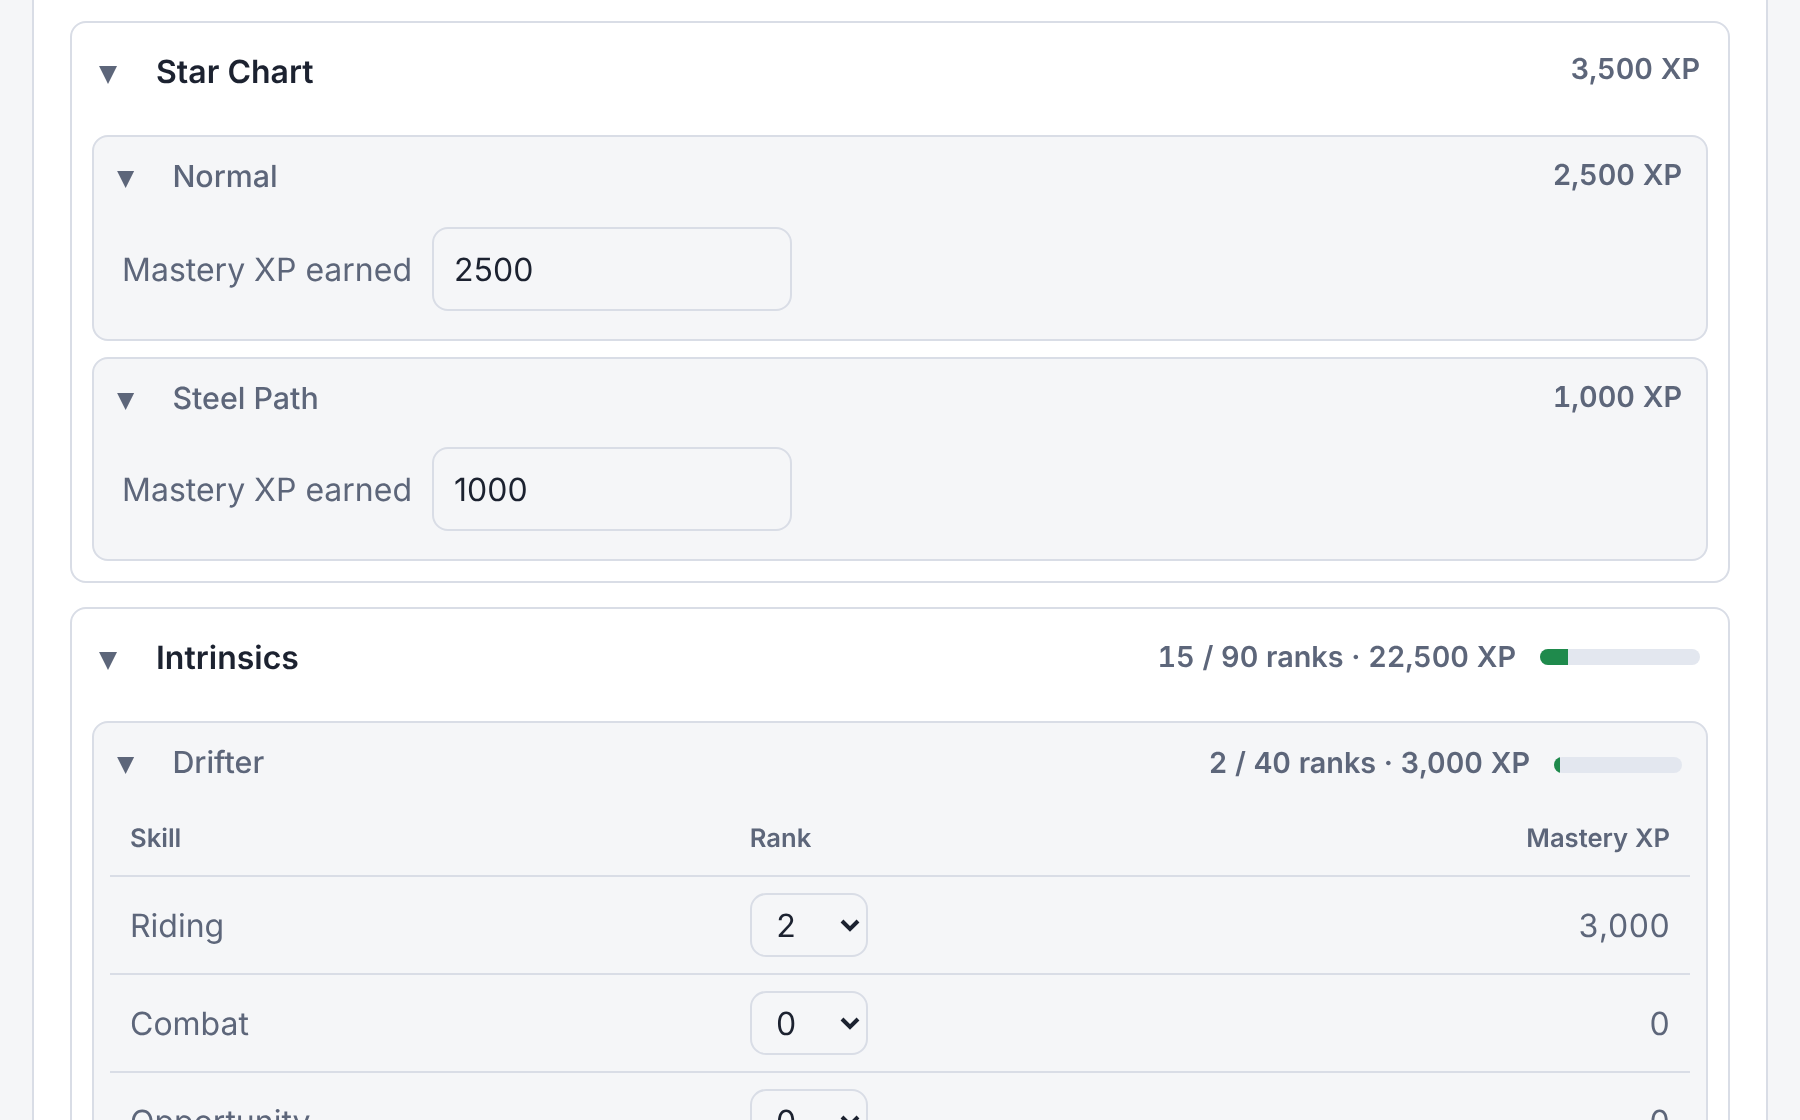
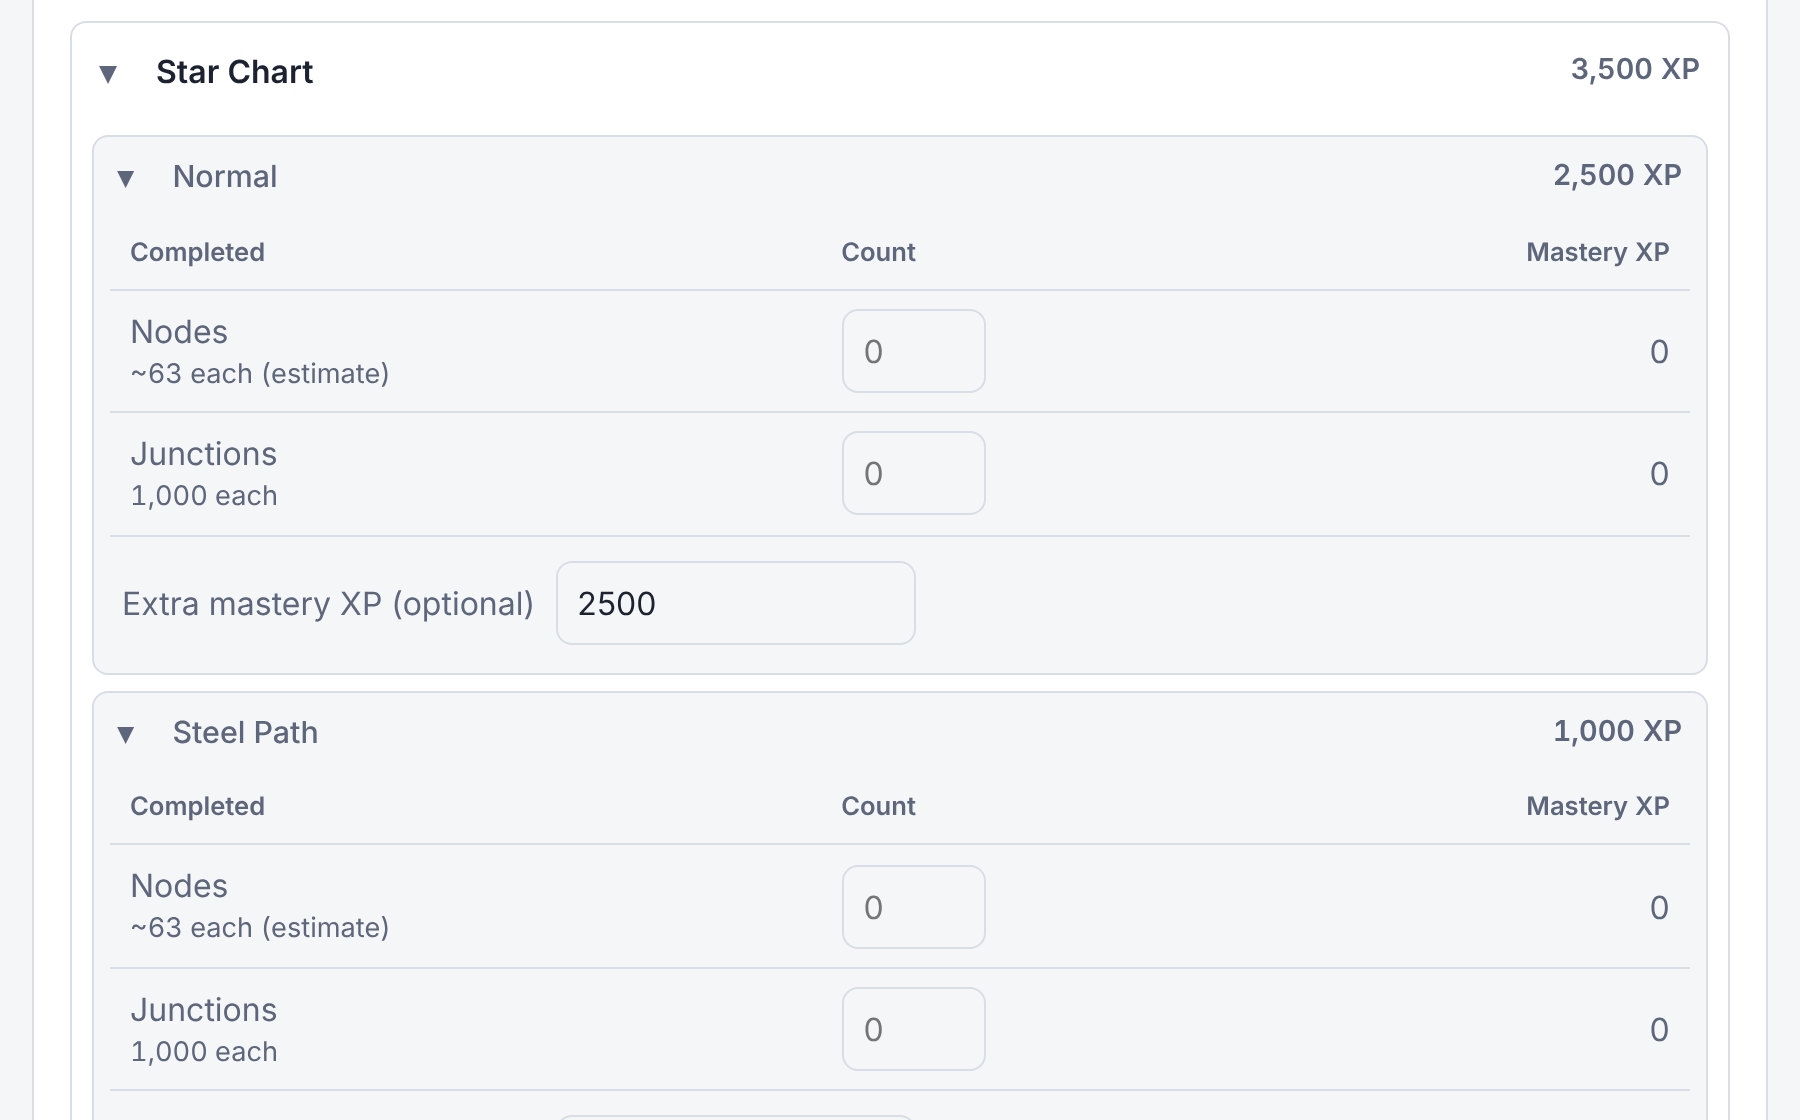
Star Chart: nodes and junctions, filled in from the imported profile
Junctions are 1,000 XP each; nodes use a ~63 XP estimate. Counts for Normal
and Steel Path come from the Missions list in the profile.

Claude-Session: https://claude.ai/code/session_01APemrT85MxDH99zKt1411N

diff --git a/js/mastery.js b/js/mastery.js
@@ -117,6 +117,21 @@
     return out;
   }
 
+  // Completed Star Chart nodes and junctions come from the Missions list. A Tier of
+  // 1 marks the Steel Path completion. Railjack, dojo and event nodes are skipped.
+  function readStarChart(missions) {
+    const out = { "star-chart/nodes": 0, "star-chart/junctions": 0, "steel-path/nodes": 0, "steel-path/junctions": 0 };
+    if (!Array.isArray(missions)) return out;
+    for (const m of missions) {
+      const tag = m && typeof m.Tag === "string" ? m.Tag : "";
+      const kind = /^SolNode\d+$/.test(tag) ? "nodes" : /Junction$/.test(tag) ? "junctions" : null;
+      if (!kind) continue;
+      out["star-chart/" + kind]++;
+      if (m.Tier === 1) out["steel-path/" + kind]++;
+    }
+    return out;
+  }
+
   function parseProfile(json) {
     const root = json && Array.isArray(json.Results) ? json.Results[0] : json;
     if (!root || typeof root !== "object") throw new Error("Not a profile JSON object.");
@@ -136,6 +151,7 @@
       reportedRank: Number.isFinite(root.PlayerLevel) ? root.PlayerLevel : null,
       xpByItem,
       intrinsics: readIntrinsics(root.PlayerSkills),
+      starChart: readStarChart(root.Missions),
     };
   }
 
@@ -168,10 +184,17 @@
   const INTRINSIC_XP_PER_RANK = 1500;
   const INTRINSIC_MAX_RANK = 10;
   const MAX_ENTERED_XP = 10000000;
+  // Star Chart: a junction is worth 1,000. Nodes vary, with an average of about 63
+  // (the wiki gives no per-node table), so node XP is an estimate. Steel Path replays
+  // are said to grant the same again; that is assumed for junctions too.
+  const NODE_XP_ESTIMATE = 63;
+  const JUNCTION_XP = 1000;
+  const MAX_NODES = 400;
+  const MAX_JUNCTIONS = 30;
 
   const OTHER_SOURCES = [
-    { id: "star-chart", label: "Normal", fullLabel: "Star Chart", kind: "xp" },
-    { id: "steel-path", label: "Steel Path", fullLabel: "Steel Path Star Chart", kind: "xp" },
+    { id: "star-chart", label: "Normal", fullLabel: "Star Chart", kind: "chart" },
+    { id: "steel-path", label: "Steel Path", fullLabel: "Steel Path Star Chart", kind: "chart" },
     {
       id: "drifter-intrinsics",
       label: "Drifter",
@@ -217,12 +240,16 @@
   // Shape: { xp: { "star-chart": n, ... }, ranks: { "railjack-intrinsics/piloting": n, ... } }.
   // Anything unknown or out of range is dropped or clamped, whatever came in.
   function sanitizeOther(raw) {
-    const out = { xp: {}, ranks: {} };
+    const out = { xp: {}, ranks: {}, counts: {} };
     const src = raw && typeof raw === "object" ? raw : {};
     for (const s of OTHER_SOURCES) {
-      if (s.kind === "xp") {
-        const n = wholeNumber(src.xp && src.xp[s.id], MAX_ENTERED_XP);
-        if (n) out.xp[s.id] = n;
+      if (s.kind === "chart") {
+        const extra = wholeNumber(src.xp && src.xp[s.id], MAX_ENTERED_XP);
+        if (extra) out.xp[s.id] = extra;
+        const nodes = wholeNumber(src.counts && src.counts[s.id + "/nodes"], MAX_NODES);
+        if (nodes) out.counts[s.id + "/nodes"] = nodes;
+        const junctions = wholeNumber(src.counts && src.counts[s.id + "/junctions"], MAX_JUNCTIONS);
+        if (junctions) out.counts[s.id + "/junctions"] = junctions;
       } else {
         for (const sk of s.skills) {
           const key = s.id + "/" + sk.id;
@@ -237,9 +264,13 @@
   function summarizeOther(raw) {
     const o = sanitizeOther(raw);
     const sources = OTHER_SOURCES.map((s) => {
-      if (s.kind === "xp") {
-        const xp = o.xp[s.id] || 0;
-        return { id: s.id, label: s.label, fullLabel: s.fullLabel, kind: "xp", xp, maxXp: null };
+      if (s.kind === "chart") {
+        const nodes = o.counts[s.id + "/nodes"] || 0;
+        const junctions = o.counts[s.id + "/junctions"] || 0;
+        const extra = o.xp[s.id] || 0;
+        const nodeXp = nodes * NODE_XP_ESTIMATE;
+        const junctionXp = junctions * JUNCTION_XP;
+        return { id: s.id, label: s.label, fullLabel: s.fullLabel, kind: "chart", nodes, junctions, extra, nodeXp, junctionXp, nodeKey: s.id + "/nodes", junctionKey: s.id + "/junctions", xp: nodeXp + junctionXp + extra, maxXp: null };
       }
       const skills = s.skills.map((sk) => {
         const key = s.id + "/" + sk.id;
@@ -353,5 +384,5 @@
     return ids.map((id) => ({ id, label: listLabel(id), rows: byId.get(id), types: groupByType(id, byId.get(id)) }));
   }
 
-  return { xpForRank, rankFromXp, rankProgress, rulesFor, evaluateItem, parseProfile, summarize, OTHER_SOURCES, OTHER_GROUPS, sanitizeOther, summarizeOther, listOf, listLabel, typeLabel, groupByType, groupRows };
+  return { xpForRank, rankFromXp, rankProgress, rulesFor, evaluateItem, parseProfile, summarize, OTHER_SOURCES, OTHER_GROUPS, NODE_XP_ESTIMATE, JUNCTION_XP, sanitizeOther, summarizeOther, listOf, listLabel, typeLabel, groupByType, groupRows };
 });

diff --git a/js/app.js b/js/app.js
@@ -162,11 +162,19 @@
   function otherSourceHtml(src, groupId) {
     const key = "other/" + groupId + "/" + src.id;
     let inner;
-    if (src.kind === "xp") {
+    if (src.kind === "chart") {
+      const row = (label, hint, key, count, xp) =>
+        "<tr><td>" + esc(label) + (hint ? '<span class="muted small hint-line">' + esc(hint) + "</span>" : "") + "</td>" +
+        '<td><input type="number" class="count-input" data-other-count="' + esc(key) + '" min="0" step="1" inputmode="numeric" placeholder="0" aria-label="' + esc(src.fullLabel + " " + label.toLowerCase() + " completed") + '"' + (count ? ' value="' + count + '"' : "") + "></td>" +
+        '<td class="num" id="xp-' + esc(slugOf(key)) + '">' + fmt(xp) + "</td></tr>";
       inner =
-        '<div class="other-row"><label for="xp-' + esc(src.id) + '">Mastery XP earned</label>' +
+        '<div class="table-wrap"><table><thead><tr><th scope="col">Completed</th><th scope="col">Count</th><th scope="col" class="num">Mastery XP</th></tr></thead><tbody>' +
+        row("Nodes", "~" + M.NODE_XP_ESTIMATE + " each (estimate)", src.nodeKey, src.nodes, src.nodeXp) +
+        row("Junctions", fmt(M.JUNCTION_XP) + " each", src.junctionKey, src.junctions, src.junctionXp) +
+        "</tbody></table></div>" +
+        '<div class="other-row"><label for="xp-' + esc(src.id) + '">Extra mastery XP (optional)</label>' +
         '<input type="number" class="xp-input" id="xp-' + esc(src.id) + '" data-other-xp="' + esc(src.id) + '" min="0" step="1" inputmode="numeric" placeholder="0"' +
-        (src.xp ? ' value="' + src.xp + '"' : "") + "></div>";
+        (src.extra ? ' value="' + src.extra + '"' : "") + "></div>";
     } else {
       inner =
         '<div class="table-wrap"><table><thead><tr><th scope="col">Skill</th><th scope="col">Rank</th><th scope="col" class="num">Mastery XP</th></tr></thead><tbody>' +
@@ -208,6 +216,10 @@
       for (const src of g.sources) {
         const slug = slugOf("other/" + g.id + "/" + src.id);
         $("cnt-" + slug).textContent = otherCount(src);
+        if (src.kind === "chart") {
+          $("xp-" + slugOf(src.nodeKey)).textContent = fmt(src.nodeXp);
+          $("xp-" + slugOf(src.junctionKey)).textContent = fmt(src.junctionXp);
+        }
         if (src.kind === "ranks") {
           $("bar-" + slug).style.width = pctOf(src.rank, src.maxRank) + "%";
           for (const k of src.skills) $("xp-" + slugOf(k.key)).textContent = fmt(k.xp);
@@ -299,18 +311,23 @@
       state.profile = profile;
       // Intrinsic ranks are in the profile, so fill them in (they stay editable).
       const filled = Object.keys(profile.intrinsics || {});
-      if (filled.length) {
+      const chartKeys = Object.keys(profile.starChart || {});
+      if (filled.length || chartKeys.length) {
         const other = M.sanitizeOther(state.other);
         for (const k of filled) {
           if (profile.intrinsics[k]) other.ranks[k] = profile.intrinsics[k];
           else delete other.ranks[k];
         }
-        state.other = other;
+        for (const k of chartKeys) {
+          if (profile.starChart[k]) other.counts[k] = profile.starChart[k];
+          else delete other.counts[k];
+        }
+        state.other = M.sanitizeOther(other);
       }
       saveState();
       renderAll();
       const n = Object.keys(profile.xpByItem).length;
-      setMsg($("import-msg"), "Imported " + n + " items with XP" + (profile.displayName ? " for " + profile.displayName : "") + (filled.length ? " and your intrinsic ranks" : "") + ".", "ok");
+      setMsg($("import-msg"), "Imported " + n + " items with XP" + (profile.displayName ? " for " + profile.displayName : "") + (filled.length || chartKeys.length ? ", your Star Chart progress and your intrinsic ranks" : "") + ".", "ok");
     } catch (e) {
       setMsg($("import-msg"), e.message, "error");
     }
@@ -393,6 +410,10 @@
         const v = String(e.target.value).trim();
         if (v === "") delete next.xp[d.otherXp];
         else next.xp[d.otherXp] = Number(v);
+      } else if (d.otherCount) {
+        const v = String(e.target.value).trim();
+        if (v === "") delete next.counts[d.otherCount];
+        else next.counts[d.otherCount] = Number(v);
       } else if (d.otherRank) {
         next.ranks[d.otherRank] = Number(e.target.value);
       } else {

diff --git a/test/mastery.test.js b/test/mastery.test.js
@@ -210,9 +210,9 @@ test("sanitizeOther clamps, floors and drops anything unknown", () => {
     xp: { "star-chart": -5, "steel-path": "1e3", bogus: 99, "drifter-intrinsics": 5 },
     ranks: { "railjack-intrinsics/piloting": 99, "railjack-intrinsics/gunnery": 2.9, "railjack-intrinsics/nope": 4, "drifter-intrinsics/riding": "abc" },
   });
-  assert.deepEqual(o, { xp: { "steel-path": 1000 }, ranks: { "railjack-intrinsics/piloting": 10, "railjack-intrinsics/gunnery": 2 } });
+  assert.deepEqual(o, { xp: { "steel-path": 1000 }, ranks: { "railjack-intrinsics/piloting": 10, "railjack-intrinsics/gunnery": 2 }, counts: {} });
   assert.equal(M.sanitizeOther({ xp: { "star-chart": 1e15 } }).xp["star-chart"], 10000000);
-  for (const junk of [null, undefined, 5, "x", [], { xp: 7, ranks: "y" }]) assert.deepEqual(M.sanitizeOther(junk), { xp: {}, ranks: {} });
+  for (const junk of [null, undefined, 5, "x", [], { xp: 7, ranks: "y" }]) assert.deepEqual(M.sanitizeOther(junk), { xp: {}, ranks: {}, counts: {} });
 });
 
 test("other-sources XP feeds the rank total", () => {
@@ -231,4 +231,23 @@ test("parseProfile reads intrinsic ranks from PlayerSkills", () => {
   const p = M.parseProfile({ XPInfo: [], PlayerSkills: { LPS_DRIFT_RIDING: 10, LPS_PILOTING: 7, LPS_COMMAND: 99, LPP_SPACE: 5, LPS_GUNNERY: 0 } });
   assert.deepEqual(p.intrinsics, { "drifter-intrinsics/riding": 10, "railjack-intrinsics/piloting": 7, "railjack-intrinsics/command": 10, "railjack-intrinsics/gunnery": 0 });
   assert.deepEqual(M.parseProfile({ XPInfo: [] }).intrinsics, {});
+});
+
+test("star chart: junctions are 1,000 each, nodes use the estimate, extra XP adds on", () => {
+  const o = M.summarizeOther({ counts: { "star-chart/nodes": 10, "star-chart/junctions": 3, "steel-path/nodes": 2, "steel-path/junctions": 1, "star-chart/bogus": 5 }, xp: { "steel-path": 500 } });
+  const sc = o.sources.find((x) => x.id === "star-chart");
+  assert.equal(sc.junctionXp, 3000);
+  assert.equal(sc.nodeXp, 10 * M.NODE_XP_ESTIMATE);
+  assert.equal(sc.xp, 3000 + 10 * M.NODE_XP_ESTIMATE);
+  assert.equal(o.sources.find((x) => x.id === "steel-path").xp, 1000 + 2 * M.NODE_XP_ESTIMATE + 500);
+  assert.equal(M.sanitizeOther({ counts: { "star-chart/nodes": 9999, "star-chart/junctions": -2 } }).counts["star-chart/nodes"], 400);
+});
+
+test("parseProfile counts Star Chart nodes and junctions, Steel Path by Tier 1", () => {
+  const p = M.parseProfile({ XPInfo: [], Missions: [
+    { Tag: "SolNode1", Completes: 3 }, { Tag: "SolNode2", Tier: 1 }, { Tag: "SolNode3" },
+    { Tag: "EarthToVenusJunction", Tier: 1 }, { Tag: "MarsToCeresJunction" },
+    { Tag: "CrewBattleNode5" }, { Tag: "ClanNode0" }, { Tag: "EarthHUB" },
+  ] });
+  assert.deepEqual(p.starChart, { "star-chart/nodes": 3, "star-chart/junctions": 2, "steel-path/nodes": 1, "steel-path/junctions": 1 });
 });

diff --git a/index.html b/index.html
@@ -5,8 +5,8 @@
   <meta name="viewport" content="width=device-width, initial-scale=1">
   <title>Warframe Mastery Tracker</title>
   <meta name="description" content="Track Warframe mastery rank progress from your own profile data. Runs entirely in your browser.">
-  <link rel="stylesheet" href="css/style.css?v=20261101e">
-  <script src="js/theme.js?v=20261101e"></script>
+  <link rel="stylesheet" href="css/style.css?v=20261101g">
+  <script src="js/theme.js?v=20261101g"></script>
 </head>
 <body>
   <header class="site-header">
@@ -122,7 +122,7 @@
     </div>
   </footer>
 
-  <script src="js/mastery.js?v=20261101e"></script>
-  <script src="js/app.js?v=20261101e"></script>
+  <script src="js/mastery.js?v=20261101g"></script>
+  <script src="js/app.js?v=20261101g"></script>
 </body>
 </html>

diff --git a/css/style.css b/css/style.css
@@ -246,3 +246,7 @@ td select { padding: 4px 8px; }
   .list td { overflow-wrap: anywhere; }
   .list > summary { flex-wrap: wrap; row-gap: 2px; padding: 10px; }
 }
+
+/* Star Chart rows */
+.list td .count-input { width: 4.5rem; min-width: 0; max-width: 100%; }
+.hint-line { display: block; font-weight: 400; }

diff --git a/README.md b/README.md
@@ -38,10 +38,10 @@ You'll see a confirmation with the number of items found. If you see an error in
 
 Your profile data only covers items. Mastery XP also comes from things that aren't items, so **Star Chart** and **Intrinsics** at the bottom of Progress let you add it. The tracker doesn't read these from your profile, so you enter them yourself:
 
-- **Star Chart**, split into **Normal** and **Steel Path**: type in the mastery XP you've earned from each.
+- **Star Chart**, split into **Normal** and **Steel Path**: enter how many **nodes** and **junctions** you've completed. Junctions are worth 1,000 mastery XP each. Nodes vary, and the tracker counts about 63 each, which is only an estimate, so there is also an optional **Extra mastery XP** box to correct any difference.
 - **Intrinsics**, split into **Drifter** (Riding, Combat, Opportunity, Endurance) and **Railjack** (Tactical, Piloting, Gunnery, Engineering, Command): pick your rank, from 0 to 10, for each skill. Each rank counts as 1,500 mastery XP.
 
-When you import a profile, your intrinsic ranks are filled in for you from it (you can still change them). Whatever you enter counts toward your rank at the top, and the **Other sources XP** figure at the top shows the combined total.
+When you import a profile, your completed nodes and junctions (Normal and Steel Path) and your intrinsic ranks are filled in for you from it, and you can still change them. Railjack, dojo and event nodes are not counted. Whatever you enter counts toward your rank at the top, and the **Other sources XP** figure at the top shows the combined total.
 
 If you've imported a profile, a note under the progress bar compares your total with the rank Warframe itself reports. If yours is lower, some XP is missing: either in Star Chart or Intrinsics, or in items the tracker doesn't list yet (Zaws, Kitguns, K-Drives, Moas and Hounds).
 
